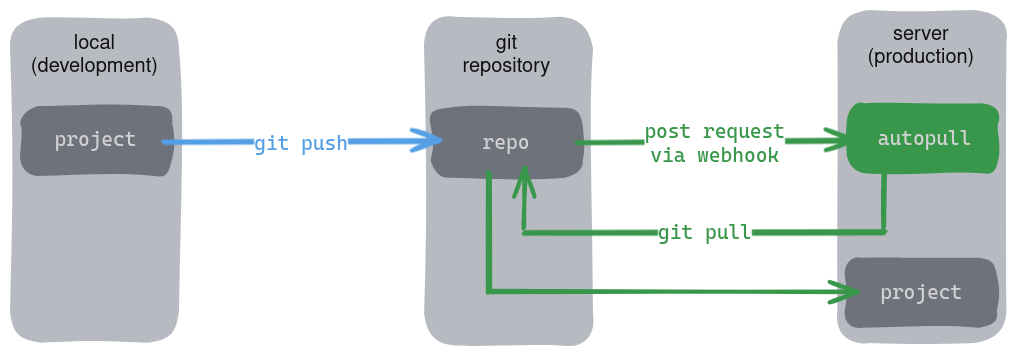
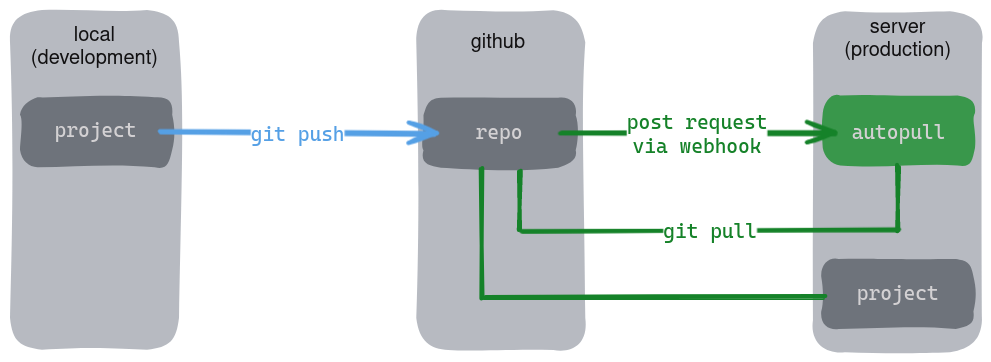
update: readme

diff --git a/README.md b/README.md
@@ -6,9 +6,9 @@
 ![GitHub Repo Size](https://img.shields.io/github/repo-size/lareii/autopull?color=limegreen)
 
 
-🔄 A real-time Git auto-sync tool.
+🔄 A real-time GitHub auto-sync tool.
 
-A simple HTTP server written in Go that monitors pushes to your Git repository in real-time, and pulls them from your Git repository.
+A simple HTTP server written in Go that monitors pushes to your GitHub repository in real-time, and pulls them from your GitHub repository.
 
 ![autopull Schema](./assets/autopull_schema.png)
 
